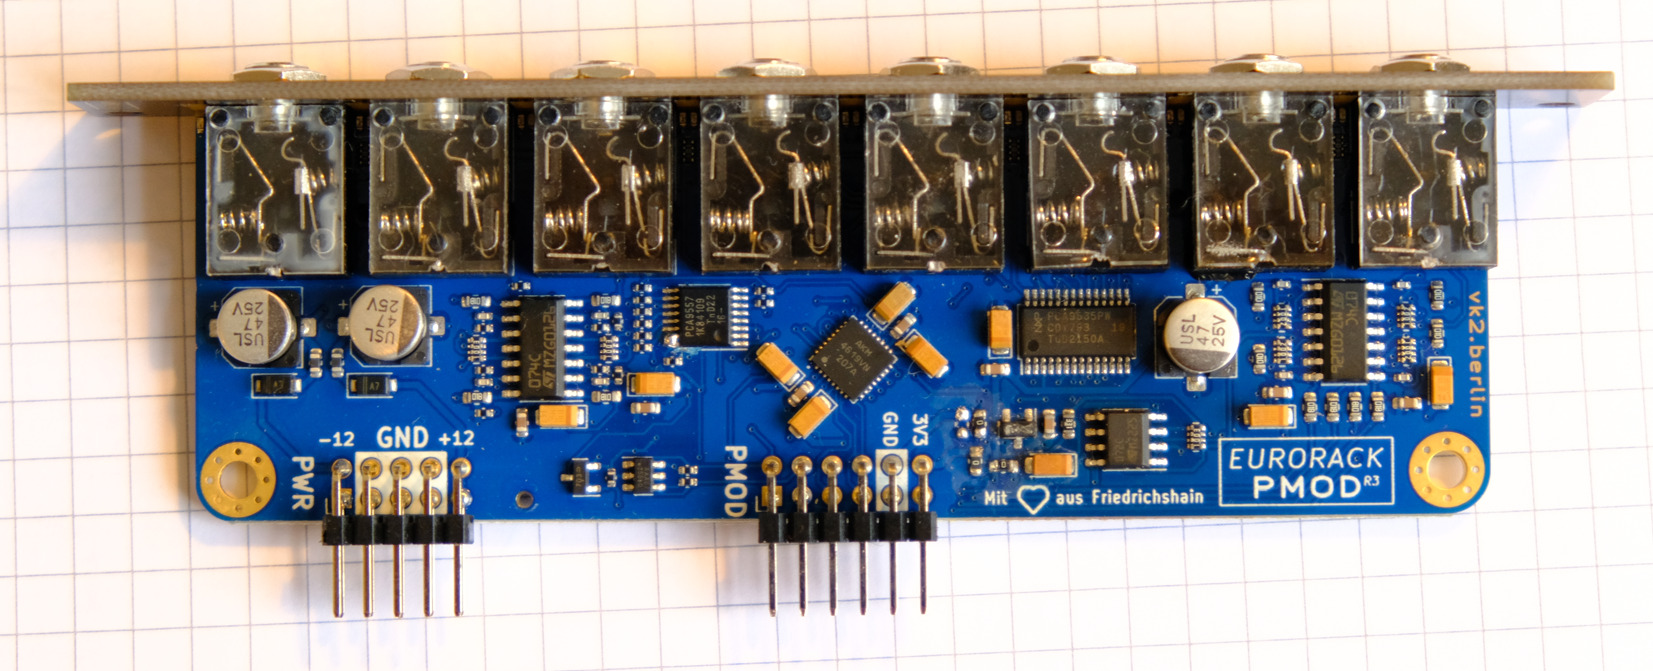
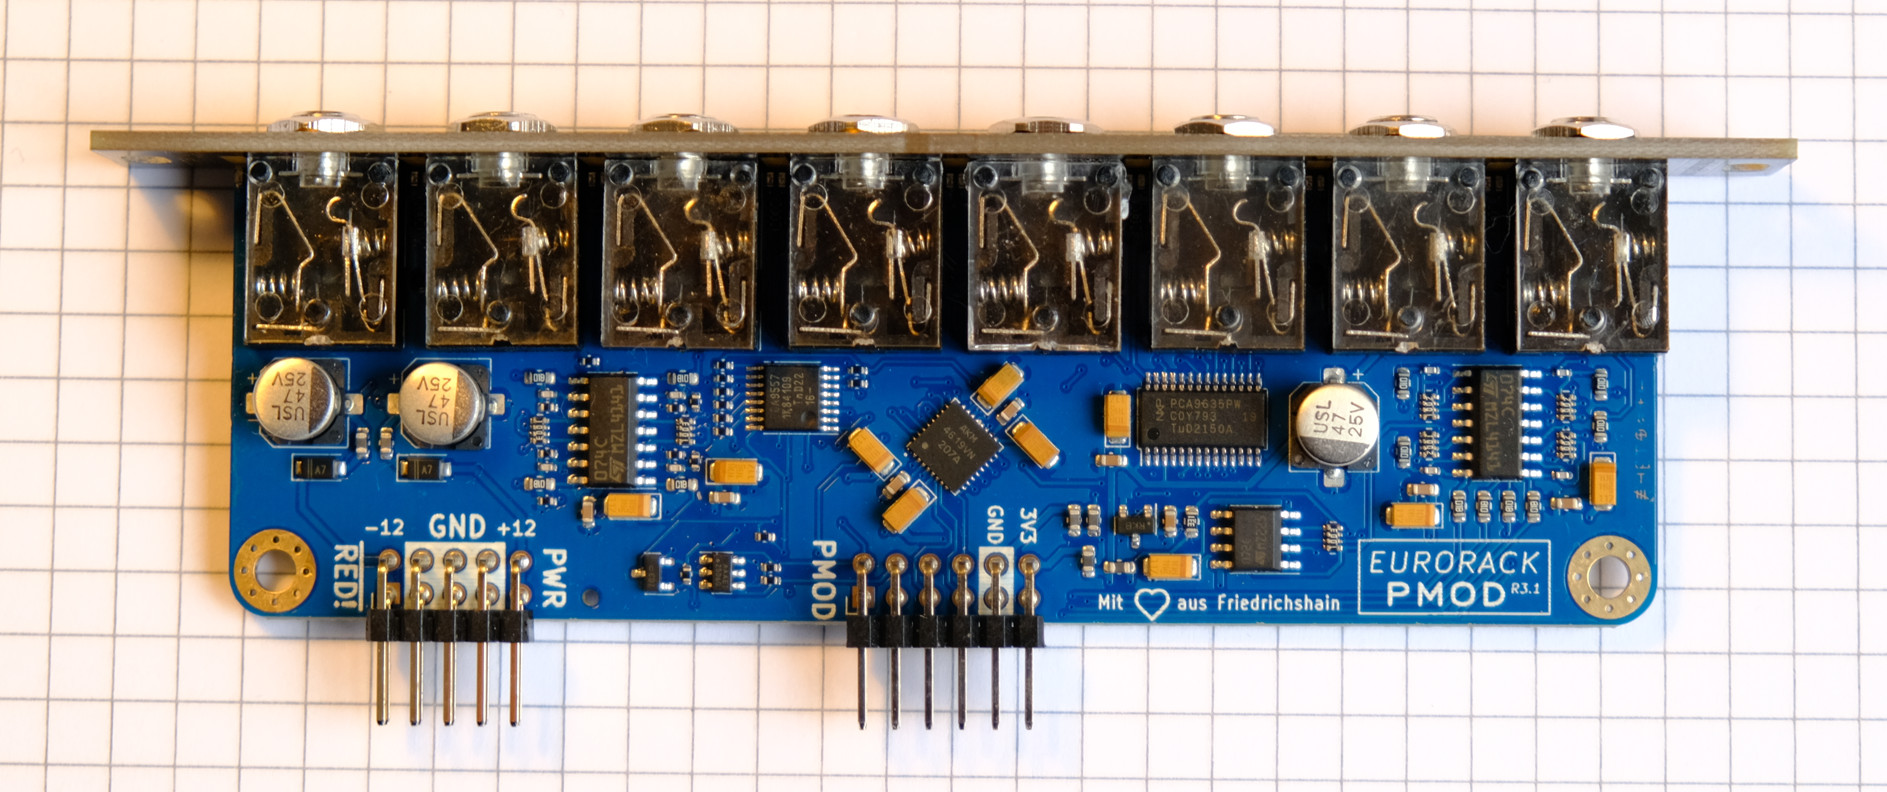
readme: hardware now available

diff --git a/README.md b/README.md
@@ -1,10 +1,15 @@
 # Eurorack PMOD
 
+**Assembled boards now available!** [get one **here :)**](https://lectronz.com/stores/apfelaudio)
+
+**Eurorack PMOD** makes it easy for you to combine the world of FPGAs and [hardware electronic music synthesis](https://en.wikipedia.org/wiki/Eurorack). It is an expansion board for FPGA development boards that allows them to interface with a Eurorack hardware synthesizer. This board exposes 8 (4 in + 4 out) DC-coupled audio channels, 192KHz / 32bit sampling supported, at a -8V to +8V swing, amongst many more features. R3.1 hardware looks like this:
+
+![assembled eurorack-pmod module R3.0 (panel)](docs/img/panel.jpg)
+![assembled eurorack-pmod module R3.0 (top)](docs/img/pmod_top.jpg)
+
+
 ![ci workflow](https://github.com/schnommus/eurorack-pmod/actions/workflows/main.yml/badge.svg)
 
-**Open hardware and gateware for getting started in FPGA-based audio synthesis.** This project is an expansion card (PMOD) for FPGA development boards, allowing them to interface directly with [modular synthesis hardware](https://en.wikipedia.org/wiki/Eurorack). This repository contains hardware and gateware for getting started.
-
-![assembled eurorack-pmod module R3.0 (front)](docs/img/pmod_top.jpg)
 
 For a high-level overview on R2.2 hardware, **see [my FOSDEM '23 talk](https://youtu.be/Wbd-OfCWvKU)** on this project. Production hardware is named R3+ and has a few improvements (LEDs fully programmable, jack detection, calibration EEPROM).
 
@@ -15,11 +20,35 @@ For a high-level overview on R2.2 hardware, **see [my FOSDEM '23 talk](https://y
 - Various [example cores](gateware/cores) (and calibration / driver cores for the audio CODEC) initially targeting an [iCEBreaker FPGA](https://1bitsquared.com/products/icebreaker) (iCE40 part) and Colorlight i5 / i9 (ECP5 part). Examples include calibration, sampling, effects, synthesis sources and so on. The design files can be synthesized to a bitstream using Yosys' [oss-cad-suite](https://github.com/YosysHQ/oss-cad-suite-build).
 - A [VCV Rack plugin](https://github.com/schnommus/verilog-vcvrack) so you can simulate your Verilog designs in a completely virtual modular system, no hardware required.
 
+## Included examples
+This repository contains a bunch of example DSP cores which are continuously being updated:
+- Bitcrusher
+- Filter (high pass / low pass / band pass)
+- Clock divider
+- .wav sampler
+- Pitch shifter
+- Sequential routing switch
+- Echo/delay effect
+- VCA (voltage controlled amplifier)
+- VCO (voltage controlled oscillator)
+
+These examples can all run out of the box on the development boards listed below. The repository currently only supports a Linux-based development environment, however porting to Mac / Windows should be fairly trivial and maybe the community can do it :).
+
+## Choosing an FPGA development board
+An FPGA development board itself is NOT included! Essentially anything iCE40 or ECP5 based that has a PMOD connector will support the open-source tools and the examples in this project. Just make sure you have enough LUTS, >3K is enough to do interesting things.
+
+The following development boards have been tested with `eurorack-pmod` and are supported by the examples in the github repository
+- iCEbreaker (iCE40 based)
+- Colorlight i5 (ECP5 based)
+- Colorlight i9 (ECP5 based)
+
 ## Hardware details
 
 ![labelled eurorack-pmod 3.0](docs/img/labelled.jpg)
 
 - 3HP module compatible with modular synthesizer systems.
+    - Module depth is 47mm with both ribbon cables attached
+    - This fits nicely in e.g. a 4MS POD 48X (pictured below).
 - PMOD connector compatible with most FPGA development boards.
 - 8 (4 in + 4 out) DC-coupled audio channels, 192KHz / 32bit sampling supported.
 - PWM-controlled, user-programmable red/green LEDs on each output channel.
@@ -28,7 +57,7 @@ For a high-level overview on R2.2 hardware, **see [my FOSDEM '23 talk](https://y
 - I/O is about +/- 8V capable, wider is possible with a resistor change.
 
 ## Gateware details
-- Examples based on Icebreaker FPGA (iCE40 part) or Colorlight i5 / i9 (ECP5 part).
+- Examples based on Icebreaker (iCE40 part) / Colorlight i5 / i9 (ECP5 part).
 - User-defined DSP logic is decoupled from rest of system (see [`gateware/cores`](gateware/cores) directory)
 
 ## Getting Started
@@ -48,15 +77,16 @@ The project is split into 2 directories, [`hardware`](hardware) for the PCB/pane
 - [`hardware/fab`](hardware/fab): gerber files and BOM for manufacturing the hardware.
 
 # Manufacturing
-I gave some R3.0 (preproduction) units out at Hackaday Berlin '23. These are tested but NOT calibrated. They had 2 hacks applied. Some inductors are shorted with 0 ohm resistors as the wrong inductor was populated (means the board is a bit noiser than it should be - but still definitely useable). Also the reset line of the jack detect IO expander was routed incorrectly, so I manually shorted 2 pins of that chip. Functionally these boards are the same as R3.1, which fixes these issues.
 
-**Want a board?** Please fill out this [google form](https://forms.gle/rSEGuKGHPVXYotHRA). First batch is already in production and will start shipping soon.
+**Assembled boards now available!** [get one **here :)**](https://lectronz.com/stores/apfelaudio)
+
+Update: R3.1 (first production release) is fully functional with 1 rework, see github issues for up-to-date information.
+
+Note: I gave some R3.0 (preproduction) units out at Hackaday Berlin '23. These are tested but NOT calibrated. They had 2 hacks applied. Some inductors are shorted with 0 ohm resistors as the wrong inductor was populated (means the board is a bit noiser than it should be - but still definitely useable). Also the reset line of the jack detect IO expander was routed incorrectly, so I manually shorted 2 pins of that chip. Functionally these boards are the same as R3.1, which fixes these issues.
 
 
 ## Known limitations
-- Gateware only runs at 96KHz/16bit samples (no reason this can't be improved, just haven't gotten around to it).
-- Selecting different DSP cores requires re-configuring the FPGA. It would be nice to have this runtime-selectable.
-- Board R3.0 is noisier than I'd like, I suspect the wrong inductors for power/GND isolation was the issue, but I won't know until R3.1 arrives
+- Moved to github issues
 
 # Photos
 
@@ -64,12 +94,6 @@ I gave some R3.0 (preproduction) units out at Hackaday Berlin '23. These are tes
 ![assembled eurorack-pmod module (front)](docs/img/leds_front.jpg)
 
 ## `eurorack-pmod` connected to iCEBreaker
-![eurorack-pmod module and icebreaker](docs/img/pmod_top_with_icebreaker.jpg)
-
-## Assembled `eurorack-pmod` (back)
-![assembled eurorack-pmod module (back)](docs/img/pmod_backright.jpg)
-
-## `eurorack-pmod` In system (with LEDs on)
 ![assembled eurorack-pmod module (in system)](docs/img/pmod_insystem.jpg)
 
 # License
